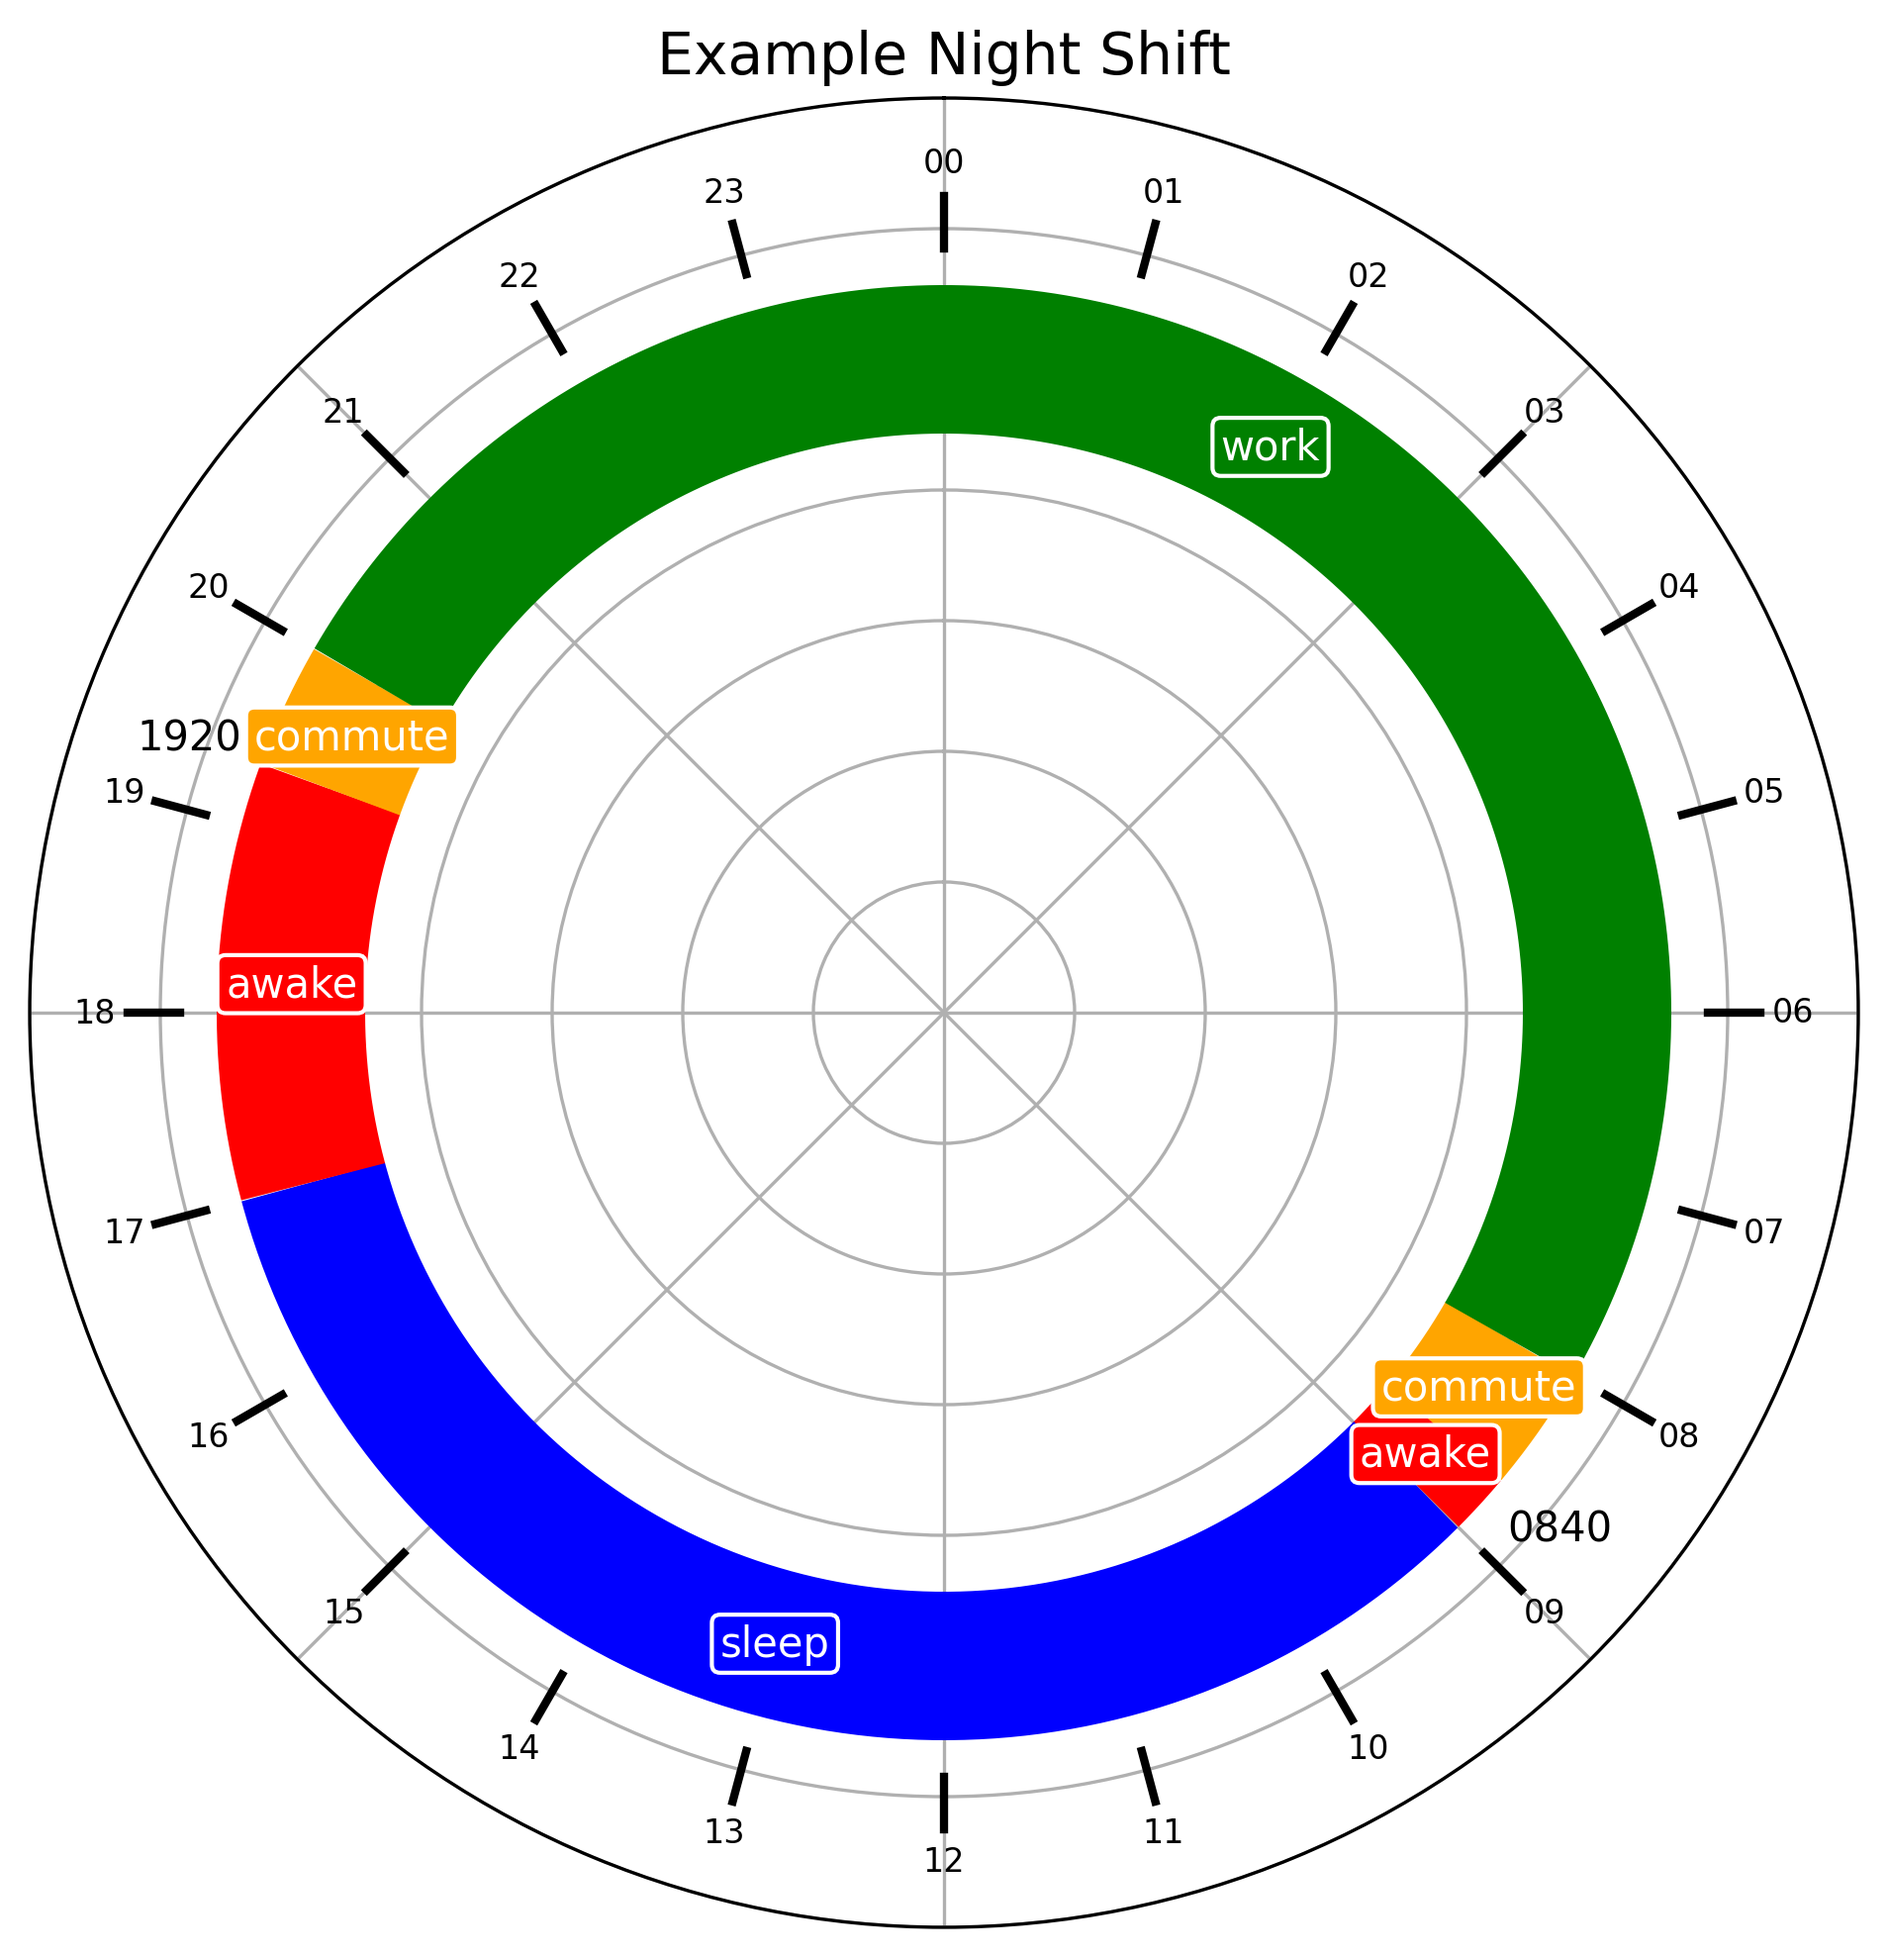
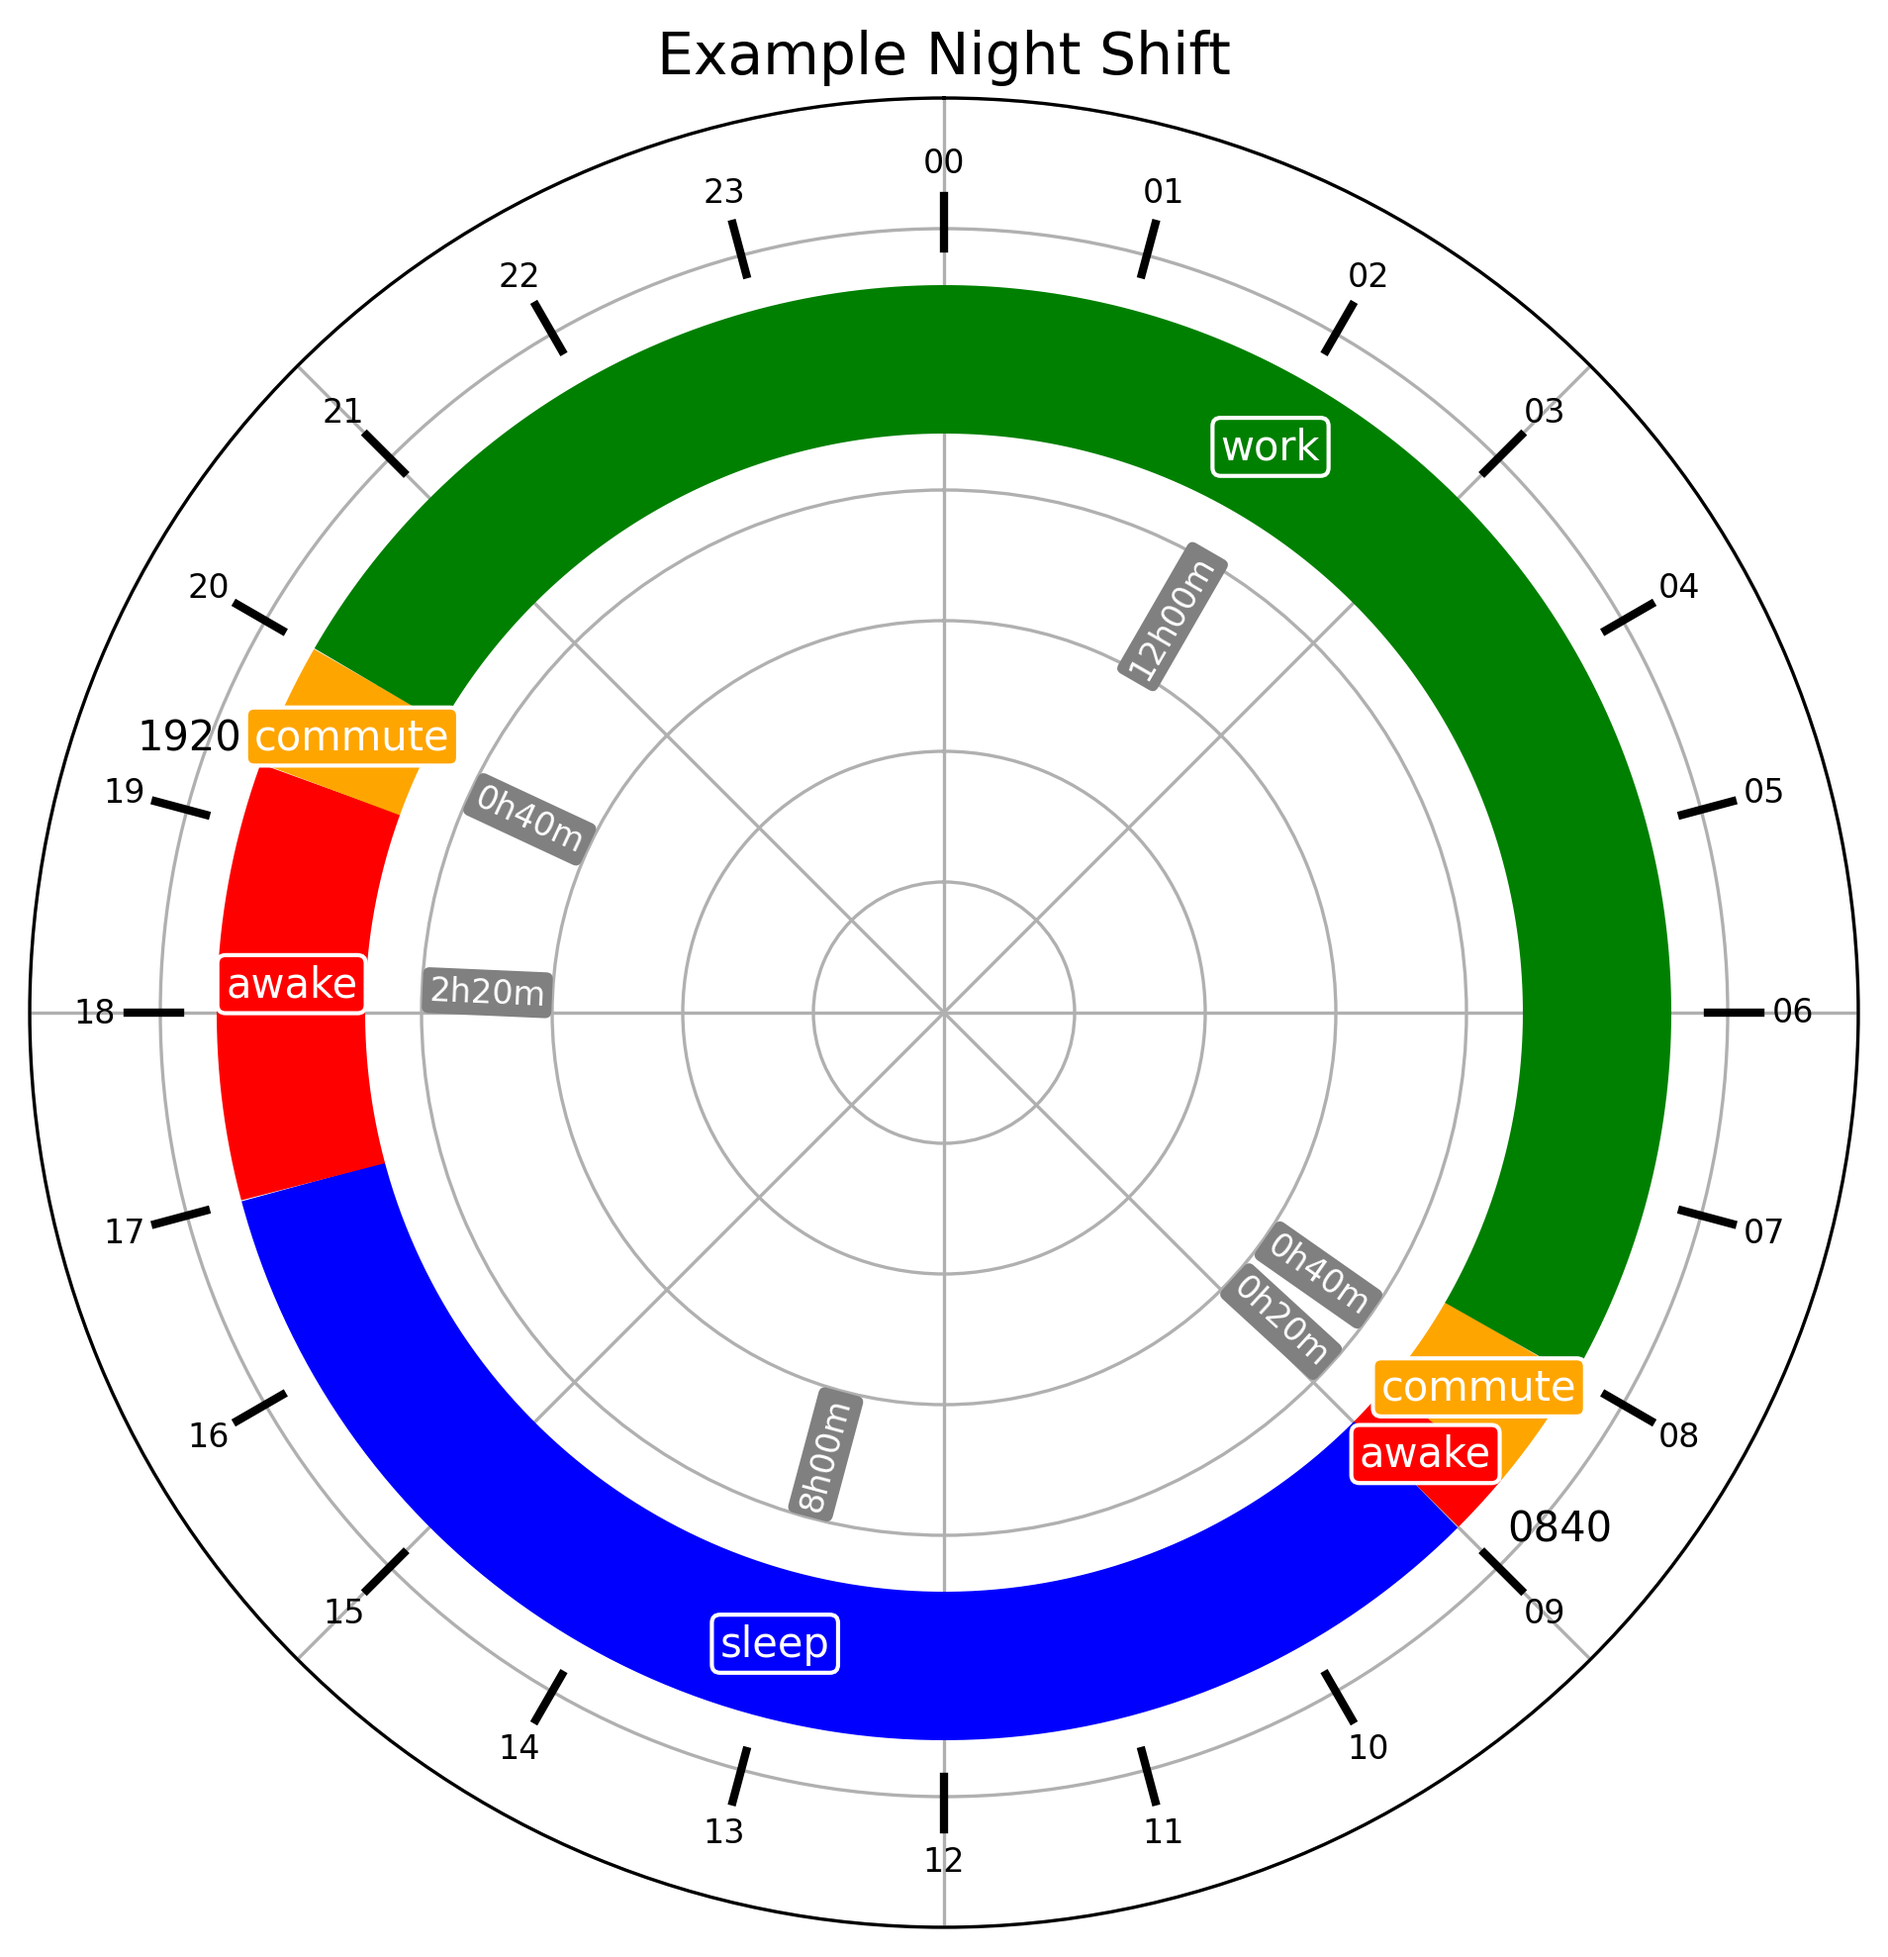
Added duration labels
Duration labels were added and part of the main loop simplified. The labels are rotated to be perpendicular to the theta they are placed on.

diff --git a/clock_plot.py b/clock_plot.py
@@ -37,41 +37,73 @@ def time_to_angle(time_str):
     return (total_minutes / 1440) * 2 * np.pi  # 1440 minutes in a day
 
 
+def duration_str(interval):
+    # Add duration labels in the middle of each interval (closer to the origin)
+    # Extract hours and minutes from the "HHMM" format
+    start_h, start_m = int(interval["start"][:2]), int(interval["start"][2:])
+    end_h, end_m =     int(interval["end"][:2]),   int(interval["end"][2:])
+
+    # Convert to total minutes for easy calculation
+    start_total_minutes = start_h * 60 + start_m
+    end_total_minutes = end_h * 60 + end_m
+
+    # Handle midnight crossover
+    if end_total_minutes < start_total_minutes:
+        end_total_minutes += 24 * 60
+
+    # Calculate duration in hours and minutes
+    duration_minutes = end_total_minutes - start_total_minutes
+    dur_h = duration_minutes // 60
+    dur_m = duration_minutes % 60
+
+    # Format the duration string
+    return f"{dur_h}h{dur_m:02d}m"
+
+
+
 # Create a clock plot from a given schedule
 def plot_schedule(schedule):
     # Create a polar plot with a larger figure
     fig, ax = plt.subplots(subplot_kw={'projection': 'polar'}, figsize=(8, 8))
 
     # Configure the polar plot:
-    ax.set_theta_direction(-1)         # Clockwise
+    ax.set_theta_direction(-1)           # Clockwise
     ax.set_theta_offset(np.pi/2)         # 0 (midnight) at the top
     ax.set_xticklabels([])               # Remove degree (theta) axis labels
 
     # Plot each interval as an arc with thick line (linewidth 36)
     arc_radius = 1
     arc_thickness = 36
-    # We'll store the start and end angles for each interval to later place the ID labels.
-    interval_angles = []
+    
+    # interval_angles = []
     for interval in schedule["intervals"]:
         start_angle = time_to_angle(interval["start"])
         end_angle = time_to_angle(interval["end"])
+        
         # Adjust for intervals that span midnight
         if end_angle <= start_angle:
             end_angle += 2 * np.pi
+
         # Plot the arc
         theta = np.linspace(start_angle, end_angle, 200)
         r = np.full_like(theta, arc_radius)
         ax.plot(theta, r, color=interval["color"], linewidth=arc_thickness, solid_capstyle='butt', label=interval["id"])
+        
         # Save the mid-angle for placing the ID label (mod 2pi to keep it in [0,2pi))
         mid_angle = (start_angle + end_angle) / 2.0 % (2*np.pi)
-        interval_angles.append((mid_angle, interval["id"], interval["color"]))
-
-    # Add ID labels in the middle of each interval
-    for mid_angle, interval_id, arc_color in interval_angles:
-        # Using white text with a black outline for visibility regardless of background
-        ax.text(mid_angle, arc_radius, interval_id, ha='center', va='center',
+    
+        # Add ID labels in the middle of each interval
+        ax.text(mid_angle, arc_radius, interval["id"], ha='center', va='center',
                 fontsize=10, color='white',
-                bbox=dict(facecolor=arc_color, edgecolor='white', boxstyle='round,pad=0.2'))
+                bbox=dict(facecolor=interval["color"], edgecolor='white', boxstyle='round,pad=0.2'))
+        
+        text_rot = (270 -np.degrees(mid_angle)) % 360
+        if 90 <= text_rot <= 270:
+            text_rot += 180  # Flip for the left half
+            
+        ax.text(mid_angle, arc_radius - 0.30, duration_str(interval), ha='center', va='center',
+                fontsize=8, color='white', rotation=text_rot, 
+                bbox=dict(facecolor="grey", edgecolor='none', boxstyle='round,pad=0.2'))
 
     # Add markers for intersection times (if not exactly on the hour)
     # Intersection markers are at the boundaries of intervals.
@@ -85,8 +117,15 @@ def plot_schedule(schedule):
     for time_str in sorted(marker_times):
         # Check if the minutes are "00" (i.e. an hour marker)
         if int(time_str[2:]) == 0:
-            continue  # Skip; we'll add hour ticks separately
+            continue  # Skip; add hour ticks separately
+        
         angle = time_to_angle(time_str)
+        
+        # TODO: correct this angle and make label better
+        # text_rot = (270 -np.degrees(mid_angle)) % 360
+        # if 90 <= text_rot <= 270:
+            # text_rot += 180  # Flip for the left half
+            
         ax.plot(angle, intersection_radius, marker='o', markersize=8, color='black', alpha=0)
         ax.text(angle, intersection_radius + 0.08, time_str, ha='center', va='center', fontsize=10)
 
